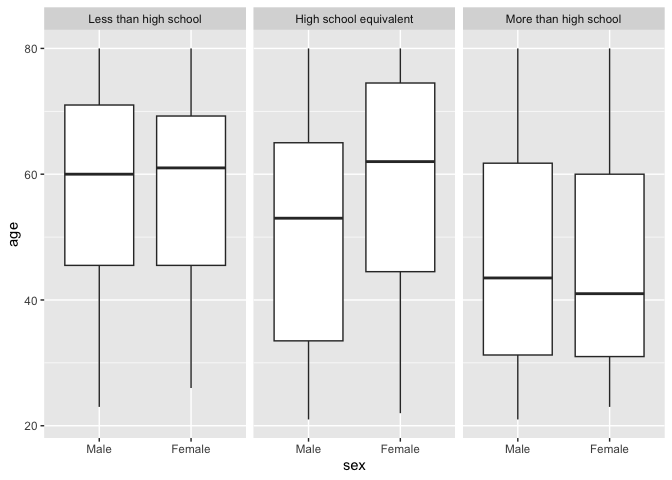
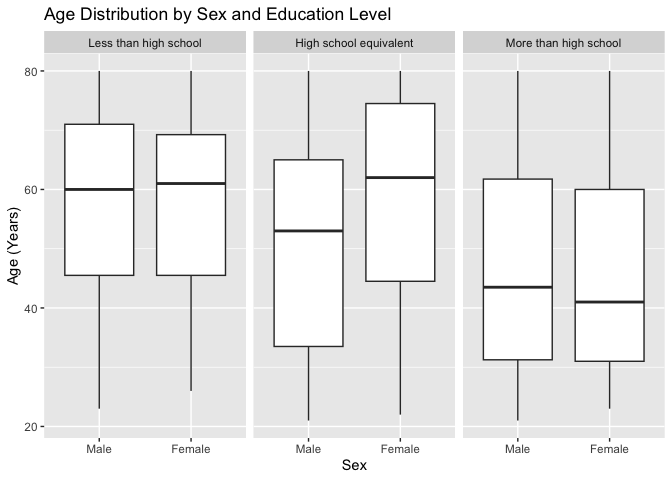
trying to figure out issue

diff --git a/p8105_hw3_mnw2132.md b/p8105_hw3_mnw2132.md
@@ -189,16 +189,53 @@ table
 ##   More than high school   56     59
 ```
 
-The below table shows the number of Male and Females there are in every
+The above table shows the number of Male and Females there are in every
 education level.
 
-    This table shows that there were 
-    # Age Visutalization
+This table shows that there were \# Age Visualization
 
-    ``` r
-      ggplot(clean_data, aes(x = sex, y = age)) + 
-        geom_boxplot() +
-      facet_grid(.~education)  +         
-      viridis::scale_fill_viridis()  
+``` r
+  ggplot(clean_data, aes(x = sex, y = age)) + 
+    geom_boxplot() +
+  facet_grid(.~education)  +    
+  labs(title = "Age Distribution by Sex and Education Level",   
+       x = "Sex",                                               
+       y = "Age (Years)")
+```
 
 ![](p8105_hw3_mnw2132_files/figure-gfm/unnamed-chunk-8-1.png)<!-- -->
+
+The above boxplot shows the distribution of ages for sex and education
+level, including medians, quartiles, min and max.
+
+# Aggregate minutes for each participant
+
+``` r
+clean_data$total_MIMs <- rowSums(clean_data[, grepl("^min", names(clean_data))])
+```
+
+# ggplot for total activity
+
+``` r
+ggplot(clean_data, aes(x = age, y = total_MIMs, color = sex)) + 
+    geom_point(alpha = .5) +
+    geom_smooth(se = FALSE) +
+    facet_grid(. ~ education) + 
+    labs(title = "Total Activity vs Age by Sex and Education Level",
+         x = "Age (Years)",
+         y = "Total Activity (MIMs/999 minutes)",
+         color = "Sex") +
+viridis::scale_color_viridis(discrete = TRUE) + 
+  theme_minimal() + 
+  theme(legend.position = "bottom")
+```
+
+![](p8105_hw3_mnw2132_files/figure-gfm/unnamed-chunk-10-1.png)<!-- -->
+The plot above demonstrates the differences in total activity for men vs
+women in 3 different education levels as their age increased. It can be
+seen that while MIMs decrease with age for every education level, the
+fluctuations in MIMs throughout the years is similar for men versus
+women. However, the overall fluctuations are different for each
+education level.
+
+# 
